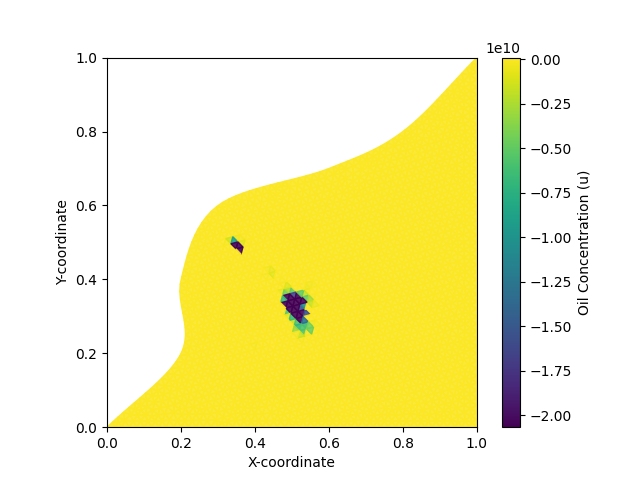
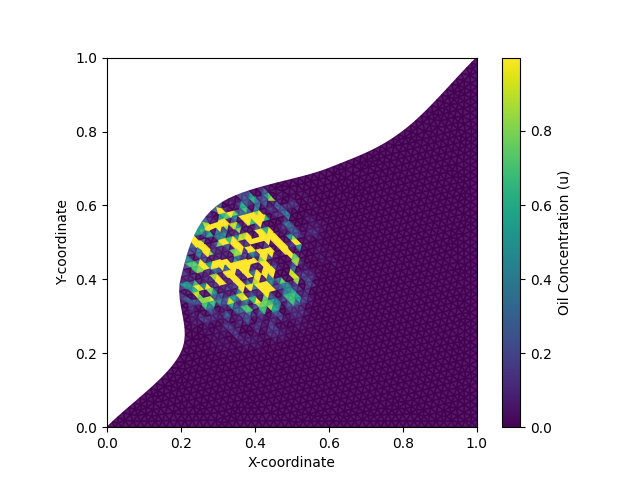
changes minor things and added images

diff --git a/main.py b/main.py
@@ -16,7 +16,6 @@ if __name__ == "__main__":
     mesh.flow_vector()
     mesh.initial_oil(x, y)
     mesh.store_area()
-    mesh.update_oil(0.1)
 
     umax = max(cell.get_amount_of_oil() for cell in mesh._cells if isinstance(cell, Triangle))
     umin = min(cell.get_amount_of_oil() for cell in mesh._cells if isinstance(cell, Triangle))
@@ -24,7 +23,7 @@ if __name__ == "__main__":
 # Iterate through time steps and plot the mesh
 for timestep in range(20):
     # Update oil distribution
-    mesh.update_oil(delta_t=0.003)
+    mesh.update_oil(delta_t=0.001)
 
     # Create the plot
     plt.figure()

diff --git a/msh_classes.py b/msh_classes.py
@@ -155,7 +155,7 @@ class Triangle(Cell): #triangle class, parent class: cell
         x1, y1 = self._midpoint
         vector = np.array([x1-x, y1-y])
         norm = np.linalg.norm(vector)
-        self._u = np.exp(-1*(norm**2/0.01))
+        self._u = np.exp(-(norm**2/0.01))
     
     def v(self):
         x, y = self._midpoint 
